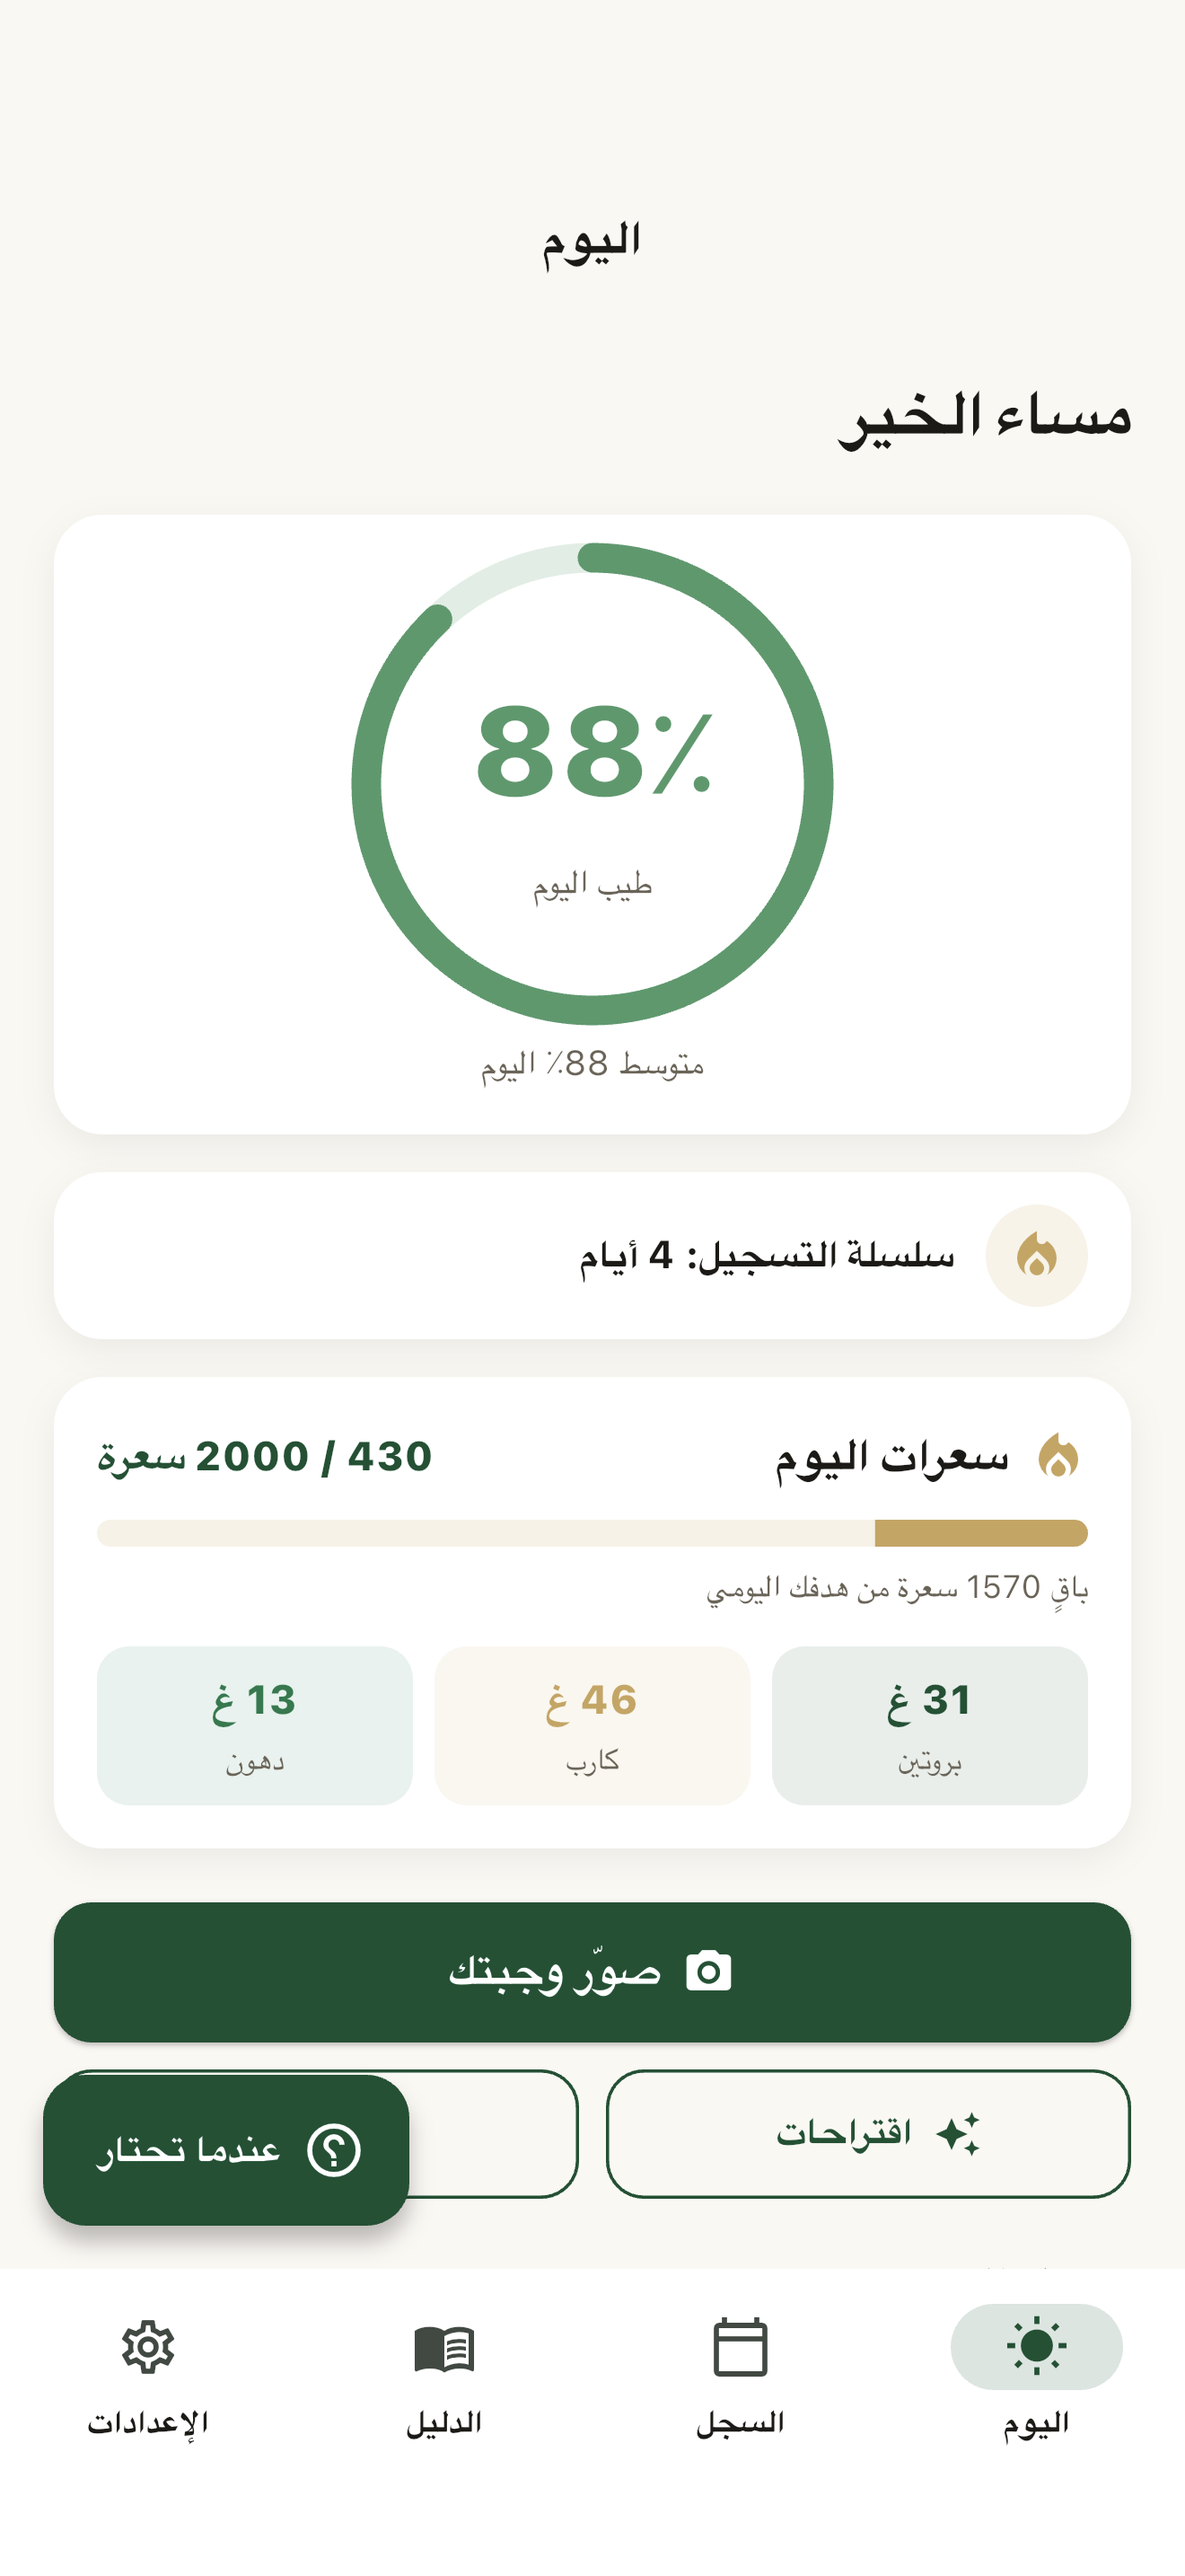
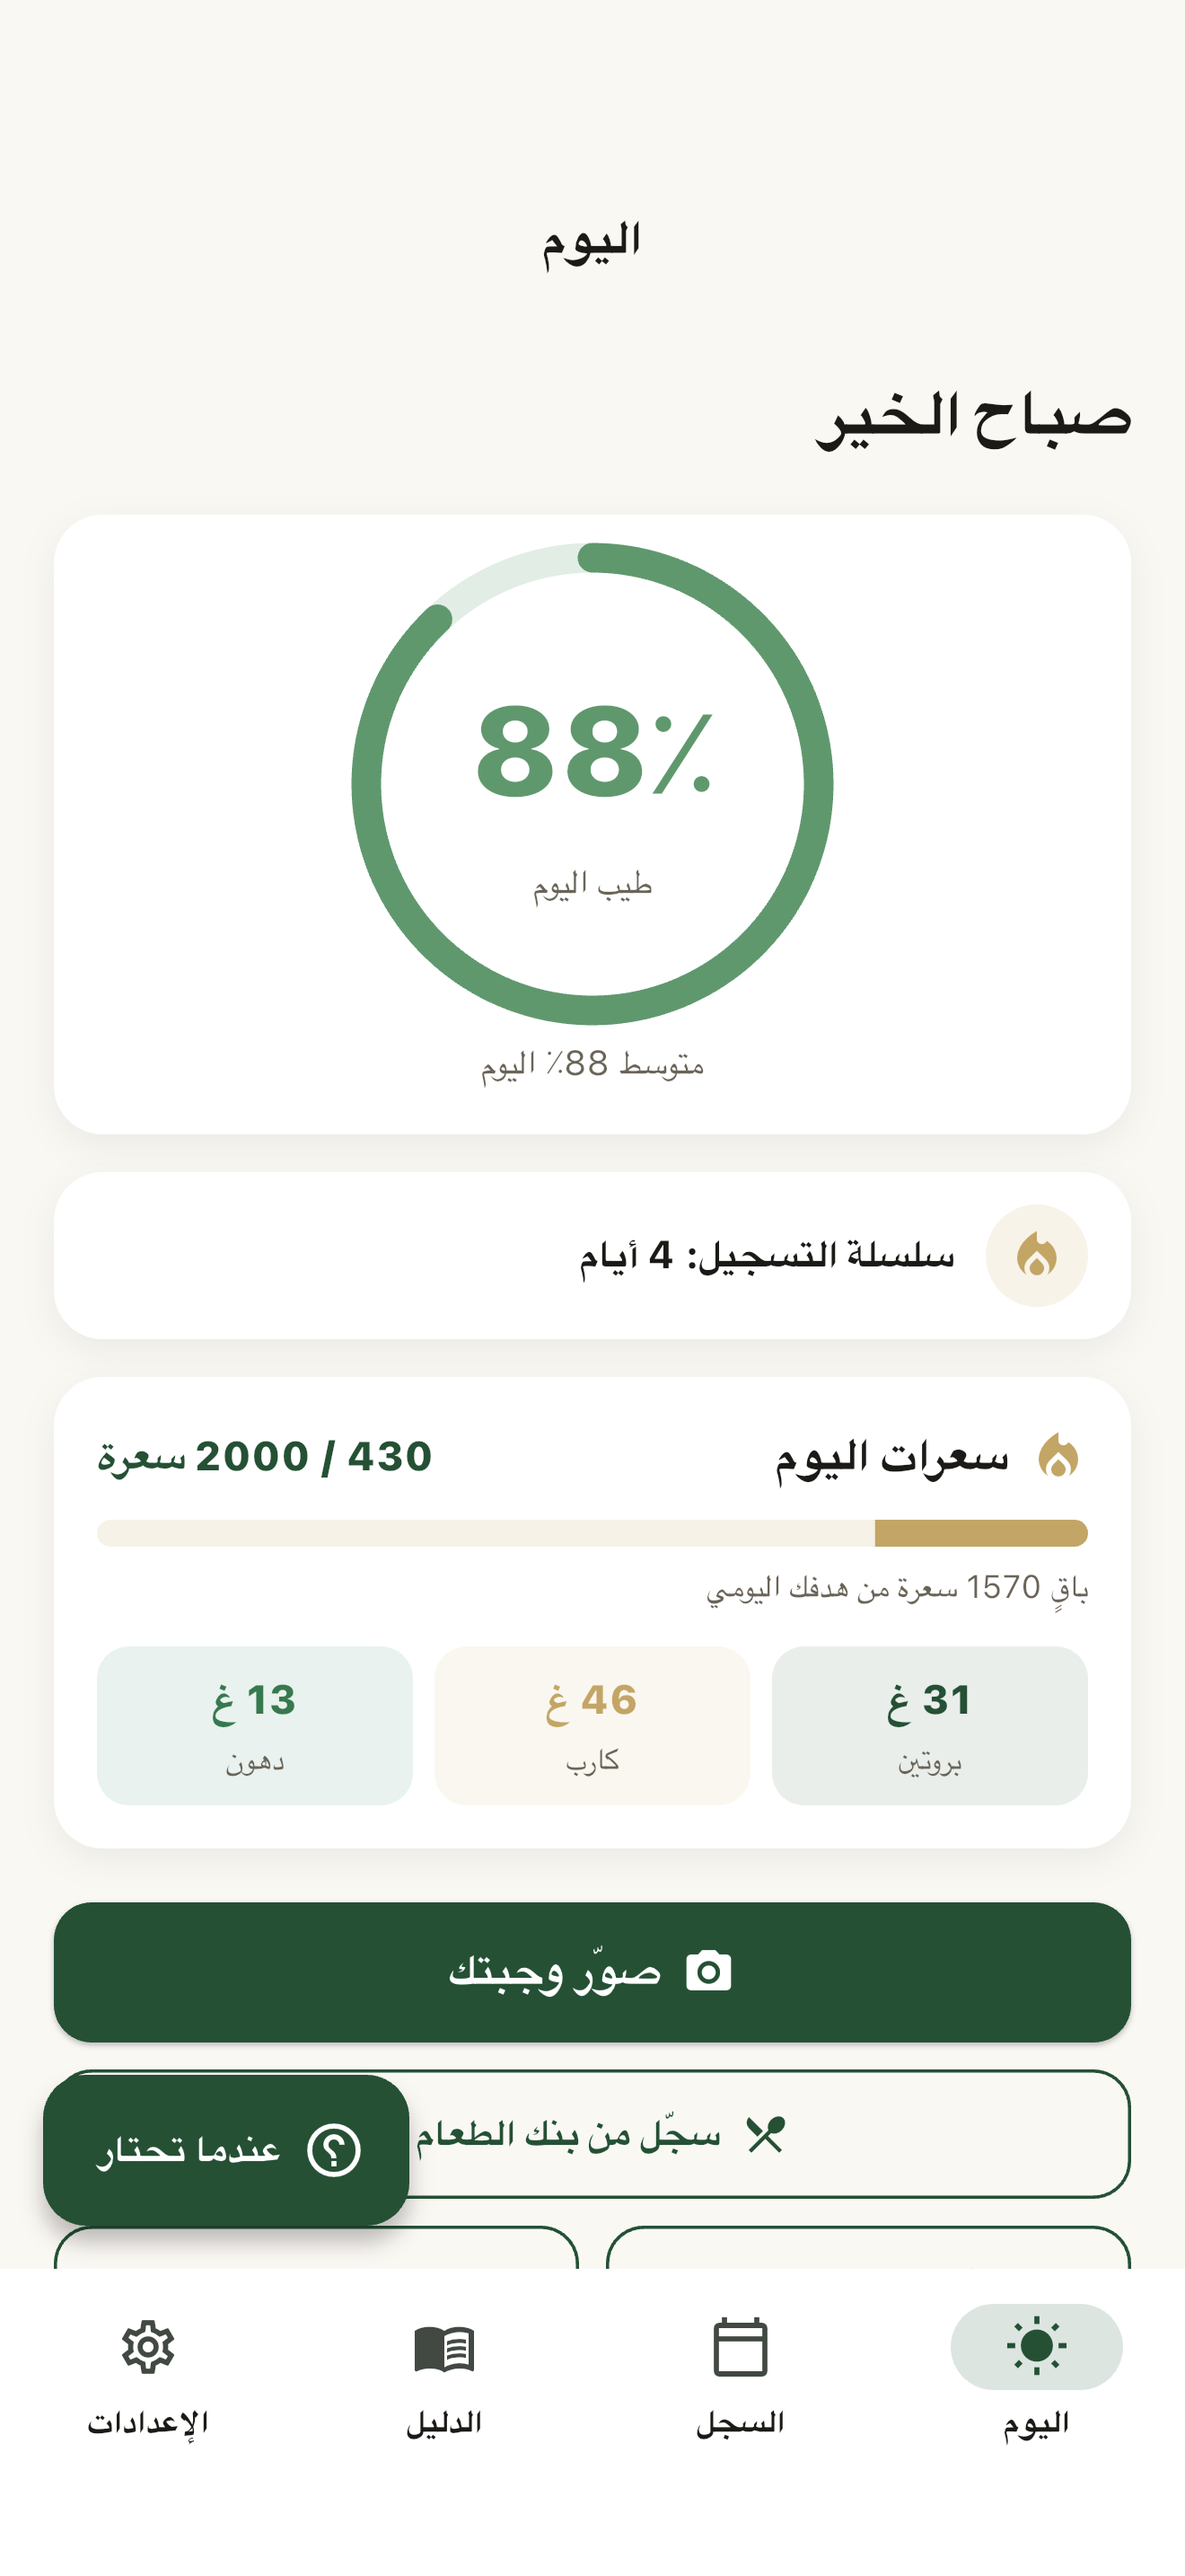
submission: refresh store screenshots for 1.3.0 (food bank replaces guidebook)
The listing still showed pre-1.2 screens. Regenerated all six in ar+en at
6.9" and 6.5", with the food bank in place of the guidebook since
logging Egyptian dishes without a photo is the v1.3 headline. The harness
needed a wiped simulator — stale sim state hung the driver before the
first frame.

diff --git a/flutter_app/integration_test/store_screenshots_test.dart b/flutter_app/integration_test/store_screenshots_test.dart
@@ -146,8 +146,8 @@ void main() {
       debugPrint('SHOT 05_intelligence failed: $e');
     }
 
-    // 6) Guide → guidebook (best effort).
-    await gotoTab(l.tab_guide);
-    await screen('06_guidebook', () => openByText(l.guide_section_guidebook));
+    // 6) Food bank — the v1.3 headline: log without a photo.
+    await gotoTab(l.tab_today);
+    await screen('06_food_bank', () => openByText(l.today_logFromBank));
   });
 }
